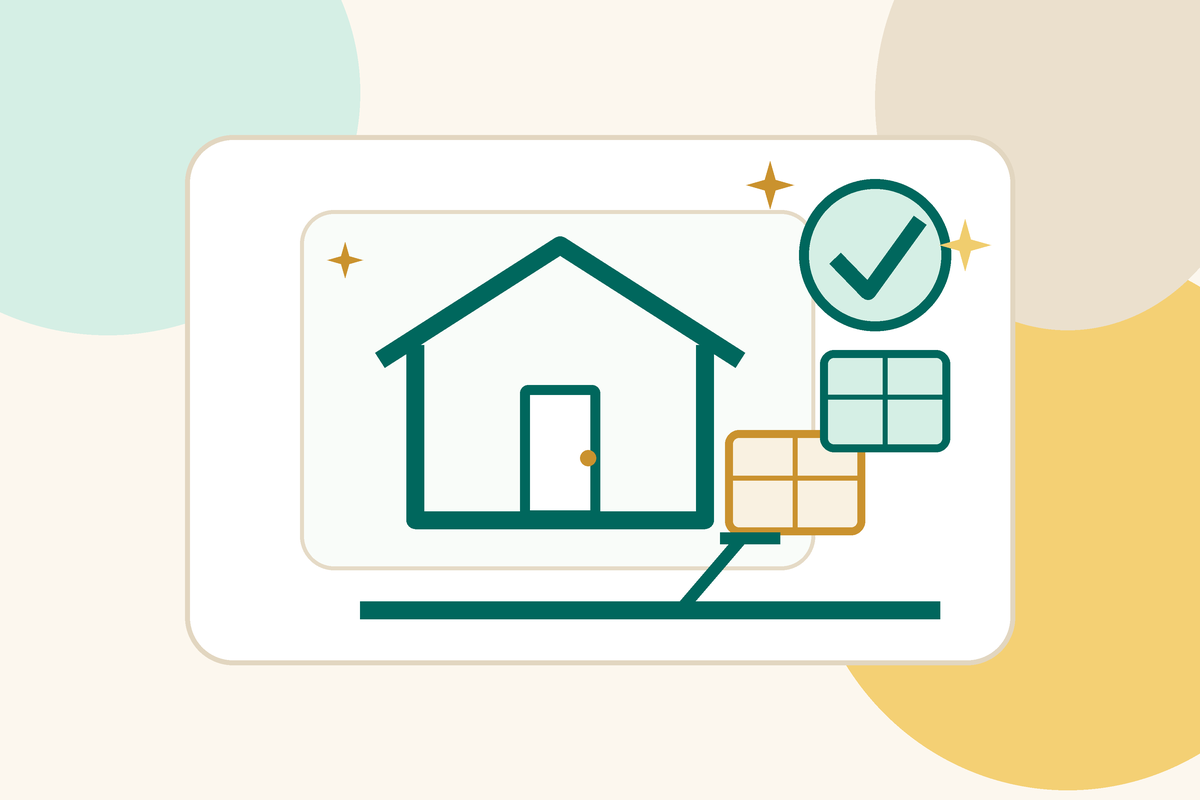
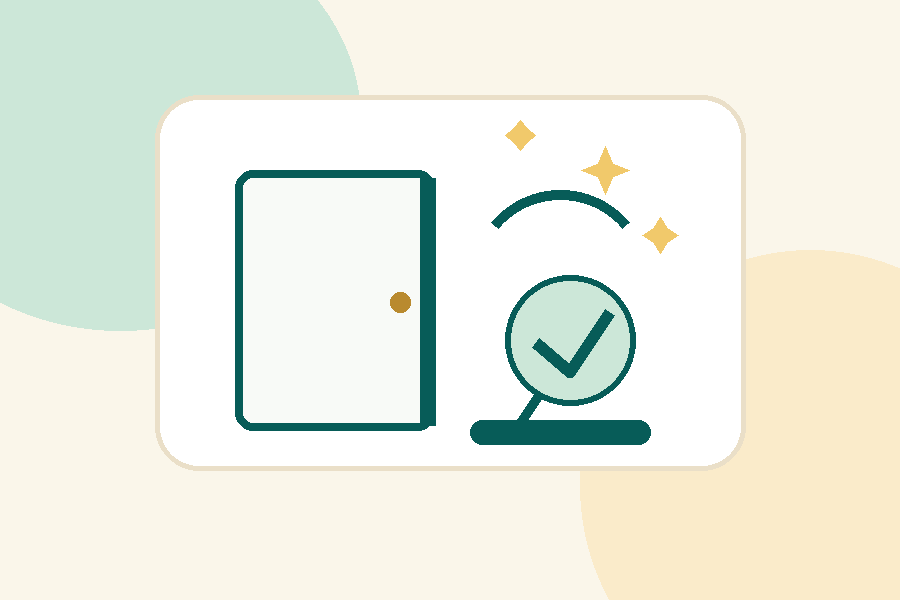
Add Google Ads request conversion tracking thank-you page

diff --git a/app/request/thank-you/page.tsx b/app/request/thank-you/page.tsx
@@ -1,0 +1,85 @@
+import type { Metadata } from "next";
+import { CheckCircle2, Mail, Phone, Sparkles } from "lucide-react";
+import { ButtonLink } from "@/components/ui/ButtonLink";
+import { siteConfig } from "@/lib/siteConfig";
+
+export const metadata: Metadata = {
+  title: "Request Received | NestHelper",
+  description: "Thanks for submitting your NestHelper service request.",
+  robots: {
+    index: false,
+    follow: false,
+  },
+  alternates: {
+    canonical: `${siteConfig.url}/request/thank-you`,
+  },
+};
+
+export default function RequestThankYouPage() {
+  return (
+    <section className="relative isolate overflow-hidden px-4 py-12 sm:px-6 sm:py-20 lg:px-8">
+      <div className="absolute inset-0 -z-10 bg-[url('/assets/backgrounds/warm-mint-gradient.png')] bg-cover opacity-75" />
+      <div className="absolute inset-0 -z-10 bg-white/55" />
+      <div className="absolute -left-24 top-10 -z-10 h-72 w-72 rounded-full bg-nest-mint/65 blur-3xl" />
+      <div className="absolute -right-24 bottom-10 -z-10 h-72 w-72 rounded-full bg-nest-gold/20 blur-3xl" />
+
+      <div className="mx-auto max-w-4xl overflow-hidden rounded-[2.5rem] border border-white/70 bg-white/78 p-6 text-center shadow-soft backdrop-blur sm:p-10 lg:p-12">
+        <div className="pill-label mx-auto w-fit">
+          <Sparkles size={15} /> Request received
+        </div>
+
+        <div className="mx-auto mt-6 flex h-16 w-16 items-center justify-center rounded-full bg-nest-mint text-nest-teal shadow-sm">
+          <CheckCircle2 className="h-8 w-8" />
+        </div>
+
+        <h1 className="mt-6 text-balance text-3xl font-black tracking-tight text-nest-teal sm:text-5xl">
+          Thanks — we received your NestHelper request.
+        </h1>
+
+        <p className="mx-auto mt-5 max-w-2xl text-base font-semibold leading-7 text-nest-ink/75 sm:text-lg sm:leading-8">
+          Leo or Gen will review the service area, timing, scope, safety notes, and pricing before sending a secure checkout link. No payment is due until the request is reviewed.
+        </p>
+
+        <div className="mx-auto mt-8 grid max-w-3xl gap-3 text-left sm:grid-cols-3">
+          {["Request saved", "Scope reviewed", "Payment link sent after review"].map((item) => (
+            <div key={item} className="flex items-center gap-2 rounded-2xl bg-nest-cream px-4 py-3 text-sm font-black text-nest-teal">
+              <CheckCircle2 size={16} className="shrink-0 text-nest-gold" />
+              {item}
+            </div>
+          ))}
+        </div>
+
+        <div className="mt-8 grid gap-4 rounded-[1.75rem] border border-nest-teal/12 bg-white/72 p-5 text-left shadow-sm sm:grid-cols-2">
+          <div className="flex gap-3">
+            <span className="inline-flex h-10 w-10 shrink-0 items-center justify-center rounded-2xl bg-nest-mint text-nest-teal">
+              <Mail className="h-5 w-5" />
+            </span>
+            <div>
+              <p className="font-black text-nest-teal">Check your email</p>
+              <p className="mt-1 text-sm font-semibold leading-6 text-nest-ink/70">
+                A confirmation email should arrive shortly. If you do not see it, check spam or promotions.
+              </p>
+            </div>
+          </div>
+
+          <div className="flex gap-3">
+            <span className="inline-flex h-10 w-10 shrink-0 items-center justify-center rounded-2xl bg-nest-mint text-nest-teal">
+              <Phone className="h-5 w-5" />
+            </span>
+            <div>
+              <p className="font-black text-nest-teal">Need to add something?</p>
+              <p className="mt-1 text-sm font-semibold leading-6 text-nest-ink/70">
+                Call or text {siteConfig.phone}, or reply to your confirmation email with photos or extra details.
+              </p>
+            </div>
+          </div>
+        </div>
+
+        <div className="mx-auto mt-8 flex max-w-sm flex-col justify-center gap-3 sm:max-w-none sm:flex-row">
+          <ButtonLink href="/services">View services</ButtonLink>
+          <ButtonLink href="/" variant="secondary">Back home</ButtonLink>
+        </div>
+      </div>
+    </section>
+  );
+}

diff --git a/app/layout.tsx b/app/layout.tsx
@@ -9,6 +9,14 @@ import { HashScrollManager } from "@/components/HashScrollManager";
 const siteUrl = siteConfig.url.replace(/\/$/, "");
 const absoluteUrl = (path: string) => `${siteUrl}${path.startsWith("/") ? path : `/${path}`}`;
 
+const googleAnalyticsId = process.env.NEXT_PUBLIC_GA_MEASUREMENT_ID || "G-64FSF1JRDH";
+const googleAdsId = process.env.NEXT_PUBLIC_GOOGLE_ADS_ID || "";
+const googleTagLoaderId = googleAdsId || googleAnalyticsId;
+const googleTagConfigLines = [googleAnalyticsId, googleAdsId]
+  .filter(Boolean)
+  .map((id) => `gtag('config', ${JSON.stringify(id)});`)
+  .join("\n            ");
+
 export const metadata: Metadata = {
   metadataBase: new URL(siteUrl),
   applicationName: siteConfig.name,
@@ -126,18 +134,22 @@ export default function RootLayout({ children }: { children: React.ReactNode }) 
   return (
     <html lang="en">
       <body className="min-h-screen overflow-x-hidden antialiased">
-        <Script
-          src="https://www.googletagmanager.com/gtag/js?id=G-64FSF1JRDH"
-          strategy="afterInteractive"
-        />
-        <Script id="google-tag" strategy="afterInteractive">
-          {`
+        {googleTagLoaderId && (
+          <Script
+            src={`https://www.googletagmanager.com/gtag/js?id=${googleTagLoaderId}`}
+            strategy="afterInteractive"
+          />
+        )}
+        {googleTagConfigLines && (
+          <Script id="google-tag" strategy="afterInteractive">
+            {`
             window.dataLayer = window.dataLayer || [];
             function gtag(){dataLayer.push(arguments);}
             gtag('js', new Date());
-            gtag('config', 'G-64FSF1JRDH');
+            ${googleTagConfigLines}
           `}
-        </Script>
+          </Script>
+        )}
         <script
           type="application/ld+json"
           dangerouslySetInnerHTML={{ __html: JSON.stringify(organizationJsonLd) }}

diff --git a/components/forms/RequestForm.tsx b/components/forms/RequestForm.tsx
@@ -1,6 +1,6 @@
 "use client";
 
-import { useSearchParams } from "next/navigation";
+import { useRouter, useSearchParams } from "next/navigation";
 import type { FormEvent, ReactNode } from "react";
 import { useEffect, useMemo, useState } from "react";
 import { ArrowRight, CheckCircle2, Clock, Gift, MapPin } from "lucide-react";
@@ -720,6 +720,7 @@ function cleanForSelectedService(form: RequestFormState) {
 }
 
 export function RequestForm() {
+  const router = useRouter();
   const params = useSearchParams();
   const requestedService = normalizeServiceParam(params.get("service") || "");
   const requestedReferralCode = normalizeReferralInput(params.get("ref") || params.get("referral") || params.get("referralCode") || "");
@@ -926,7 +927,8 @@ export function RequestForm() {
       setMessage(form.incomingReferralCode
         ? "Request received with the family referral link. We’ll review the request and keep the referral pending until the eligible reset is completed."
         : "Request received. We’ll review your service area, timing, scope, safety notes, and pricing before sending a secure checkout link. A confirmation email is on its way.");
-      setForm(mergeCampaignAttribution({ ...defaultState, service: requestedService }));
+
+      router.push("/request/thank-you");
     } catch (err) {
       console.error(err);
       setStatus("error");

diff --git a/README_GOOGLE_ADS_CONVERSION_UPDATE.md b/README_GOOGLE_ADS_CONVERSION_UPDATE.md
@@ -1,0 +1,56 @@
+# NestHelper Google Ads Conversion Tracking Update
+
+This update fixes the Google Ads conversion-tracking problem by giving Google a clean request-completion page to track.
+
+## What changed
+
+1. Added `/request/thank-you`.
+   - This page appears only after a successful public request submission.
+   - It is marked `noindex` so it does not become a search result.
+
+2. Updated the public request form.
+   - After `/api/submit-request` returns success, the form redirects to `/request/thank-you`.
+   - This lets Google Ads count only completed request submissions, not everyone who simply visits `/request`.
+
+3. Updated the site Google tag setup.
+   - Existing GA4 tag remains supported.
+   - Added optional Google Ads tag support using this Vercel environment variable:
+     `NEXT_PUBLIC_GOOGLE_ADS_ID`
+   - Use the value Google Ads gives you, usually like `AW-1234567890`.
+
+## After deploying
+
+In Google Ads, set the request conversion action to:
+
+- Goal: Submit lead form
+- Conversion name: Request form submitted
+- Tracking type: Page load
+- URL contains: `/request/thank-you`
+- Optimization: Primary
+- Count: One
+
+Do not use `/request` as a Page load conversion. That would count people who only opened the form.
+
+## Vercel environment variable
+
+In Vercel, add:
+
+`NEXT_PUBLIC_GOOGLE_ADS_ID=AW-XXXXXXXXXX`
+
+Replace `AW-XXXXXXXXXX` with the Google Ads tag ID shown in Google Ads conversion setup.
+
+Keep the existing GA4 ID unless you intentionally want to change it. The fallback is currently `G-64FSF1JRDH`.
+
+## Phone calls
+
+Set phone calls up separately in Google Ads as a call conversion:
+
+- Goal/category: Phone call lead
+- Phone: [phone redacted]
+- Count: One
+- Minimum call length: 60 seconds is a good starting point
+- Optimization: Primary if calls are as valuable as form requests
+
+## Local build note
+
+No package dependencies were changed. If your local `node_modules` folder is already present, you should not need to run `npm install`.

diff --git a/README_HELPER_OPS_PAYROLL_EXCLUSION_UPDATE.md b/README_HELPER_OPS_PAYROLL_EXCLUSION_UPDATE.md
@@ -1,0 +1,24 @@
+# NestHelper Helper Ops Payroll Exclusion Update
+
+Updated Helper Ops so canceled, archived, rejected, inactive, deleted, and test records are excluded from:
+
+- Assigned jobs summary count
+- Needs review summary count
+- Approved payroll summary total
+- Payroll summary CSV
+- QuickBooks time rows CSV
+- Mileage reimbursement CSV
+
+Also added:
+
+- A visible status filter option: `Canceled / test`
+- A visible status filter option: `All records`
+- A red safety note explaining that canceled/test records are hidden from payroll/export totals
+- A badge on excluded records: `excluded from payroll/export`
+- A `Clear payroll values` button on each Helper Ops record
+- API protection so excluded records cannot be approved for payroll even if an old/canceled/test record is opened
+
+## Files changed
+
+- `components/admin/HelperOpsDashboard.tsx`
+- `app/api/admin/update-helper-ops/route.ts`

diff --git a/README.md b/README.md
@@ -1,0 +1,9 @@
+# NestHelper Service Card Alignment Fix
+
+Replacement files only.
+
+This update fixes the specialty service cards so the rows stretch evenly, card content has breathing room, buttons are no longer absolutely pinned/cropped, and the specialty section waits until extra-wide screens before using four narrow columns.
+
+Files included:
+- components/ServiceCard.tsx
+- app/services/page.tsx